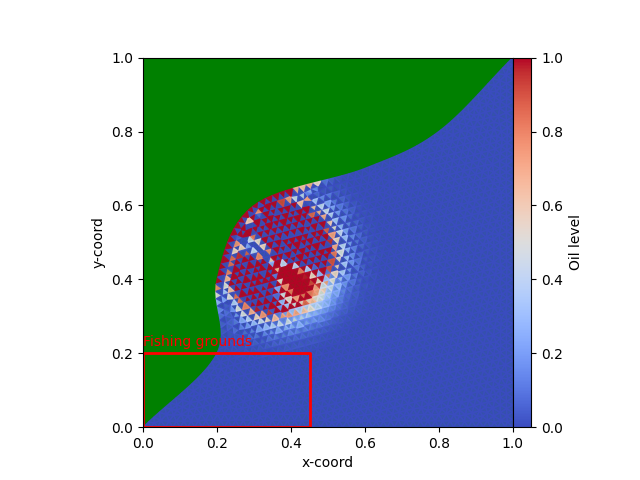
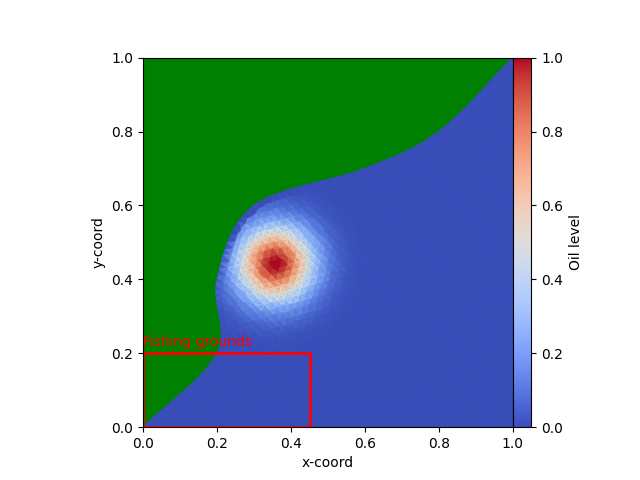
fix: timestep length

Changed region(s): [[0.3125, 0.375, 0.5625, 0.7188]]

diff --git a/main.py b/main.py
@@ -78,11 +78,15 @@ image.plot_Triangles()
 image.plot_line(fishing_ground, print_txt=True)
 image.save_img("src/resources/output/image2.png")
 
+start_time = time.time()
 i = 3
-while i < 10:
+while i < 100:
     controller.calculate_timestep()
     image = CreateImage(triangle_cells)
     image.plot_Triangles()
     image.plot_line(fishing_ground, print_txt=True)
     image.save_img(f"src/resources/output/image{i}.png")
     i = i + 1
+
+stop_time = time.time()
+print(f"Time to run {i} simulations:", stop_time - start_time, "seconds")

diff --git a/src/controller.py b/src/controller.py
@@ -18,7 +18,7 @@ class Controller:
         self.timeline = []
         self.next_oil_value = {}
         self.timestep = 0
-        self.timestep_length = 0.1
+        self.timestep_length = 0.01
 
     def set_initial_oil_values(self):
         value_dict = {}

diff --git a/src/model/view/createImage.py b/src/model/view/createImage.py
@@ -61,3 +61,4 @@ class CreateImage():
     def save_img(self, file_loc):
         # Show plot
         self._plot.savefig(file_loc)
+        self._plot.close()
